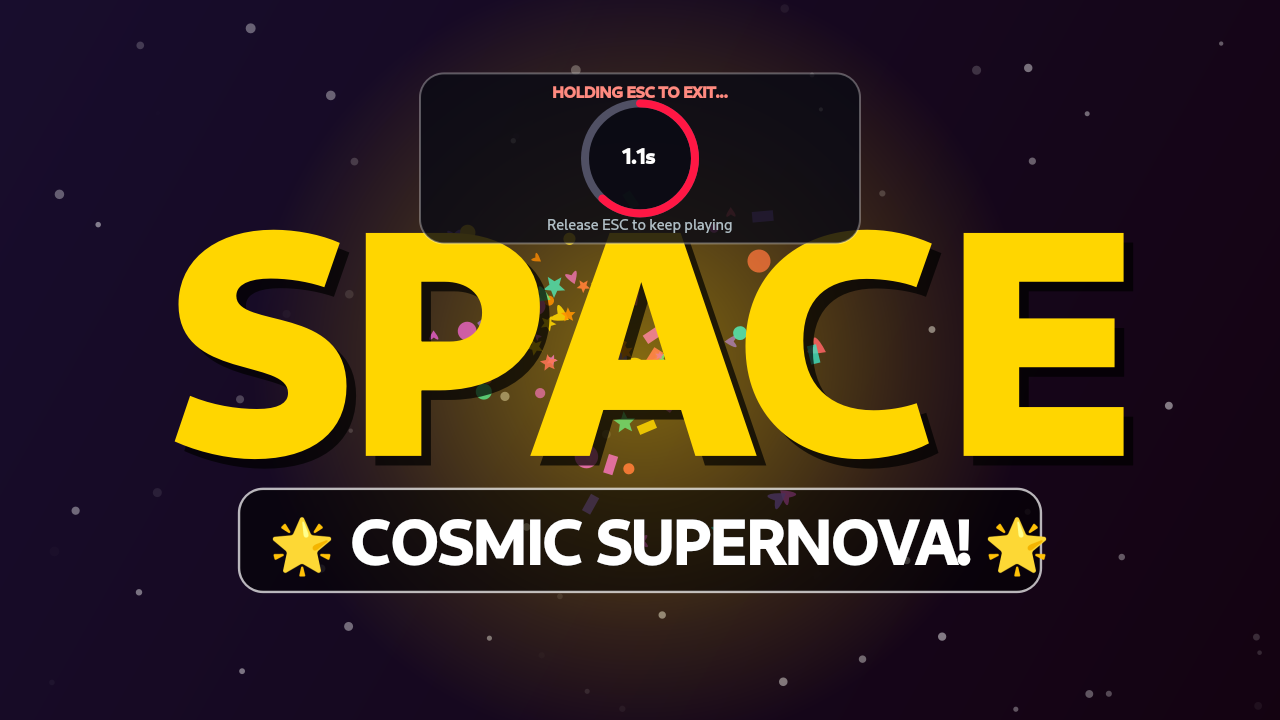
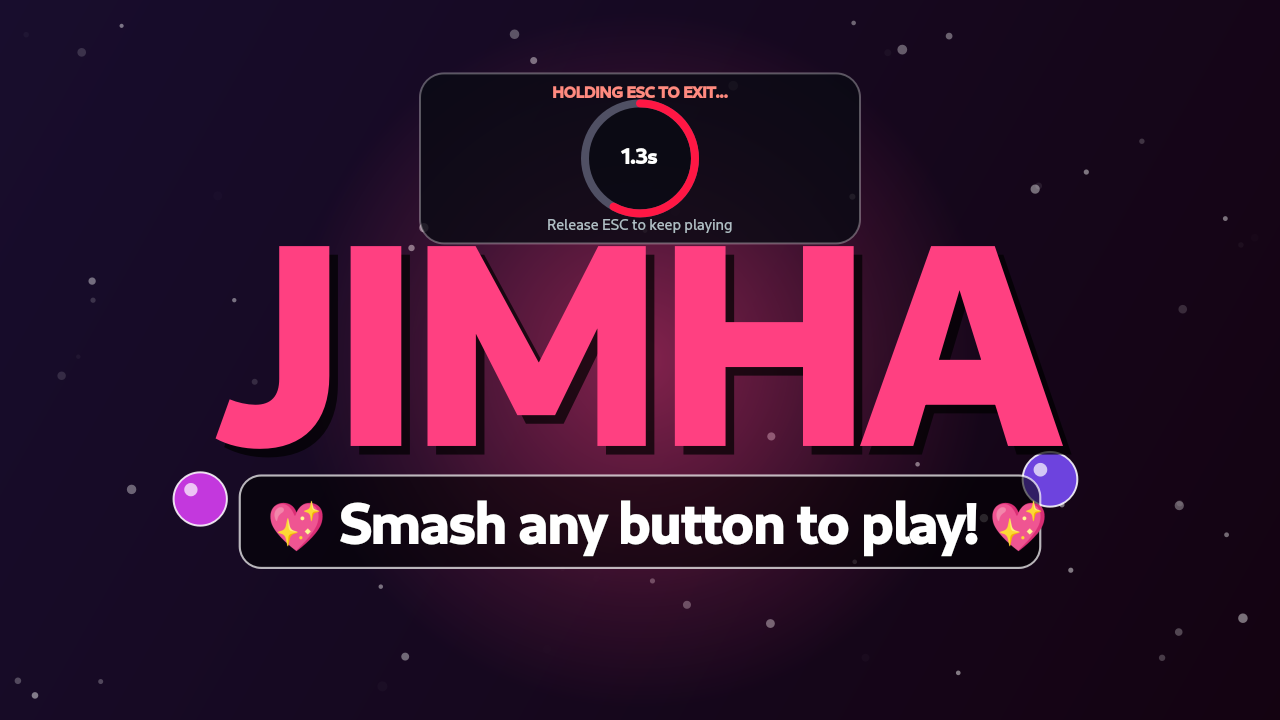
fix(docs): make Exit HUD screenshot visually distinct from Space Supernova
- Re-render screenshot_5_exit_hud.png on clean welcome canvas with floating bubbles
- Prevents visual duplication with screenshot_4_supernova.png
- Add screenshot_4_number_stars.png for number counting showcase

Changed region(s): [[0.125, 0.275, 0.875, 0.8556], [0.5, 0.2139, 0.5312, 0.2444]]

diff --git a/scripts/generate_demo_media.py b/scripts/generate_demo_media.py
@@ -89,18 +89,26 @@ def main():
     img_space.save(str(assets_dir / "screenshot_4_supernova.png"))
     print("  -> Saved screenshot_4_supernova.png")
 
-    # 5. Exit Protection HUD (holding ESC)
-    esc_down = QKeyEvent(QEvent.Type.KeyPress, Qt.Key.Key_Escape, Qt.KeyboardModifier.NoModifier)
-    game.keyPressEvent(esc_down)
-    # Simulate holding for 1.8 seconds (progress ~ 60%)
-    game.esc_hold_progress = 0.62
-    game.esc_press_start_time = time.time() - 1.86
-    img_esc = render_game_frame(game, width, height)
-    img_esc.save(str(assets_dir / "screenshot_5_exit_hud.png"))
-    print("  -> Saved screenshot_5_exit_hud.png")
-
-    # Reset game for trailer recording
+    # 5. Exit Protection HUD (holding ESC on fresh welcome screen with bubbles)
     game.close()
+    hud_game = JimHaGame(enable_audio=False)
+    hud_game.resize(width, height)
+    hud_game.show()
+    for _ in range(20):
+        hud_game._on_tick()
+    hud_game._spawn_bubble(180, 490)
+    hud_game._spawn_bubble(1060, 470)
+    for _ in range(10):
+        hud_game._on_tick()
+
+    esc_down = QKeyEvent(QEvent.Type.KeyPress, Qt.Key.Key_Escape, Qt.KeyboardModifier.NoModifier)
+    hud_game.keyPressEvent(esc_down)
+    hud_game.esc_hold_progress = 0.58
+    hud_game.esc_press_start_time = time.time() - 1.74
+    img_esc = render_game_frame(hud_game, width, height)
+    img_esc.save(str(assets_dir / "screenshot_5_exit_hud.png"))
+    hud_game.close()
+    print("  -> Saved distinct screenshot_5_exit_hud.png")
 
     print("[2/3] Recording animated gameplay clip sequence...")
     rec_game = JimHaGame(enable_audio=False)
